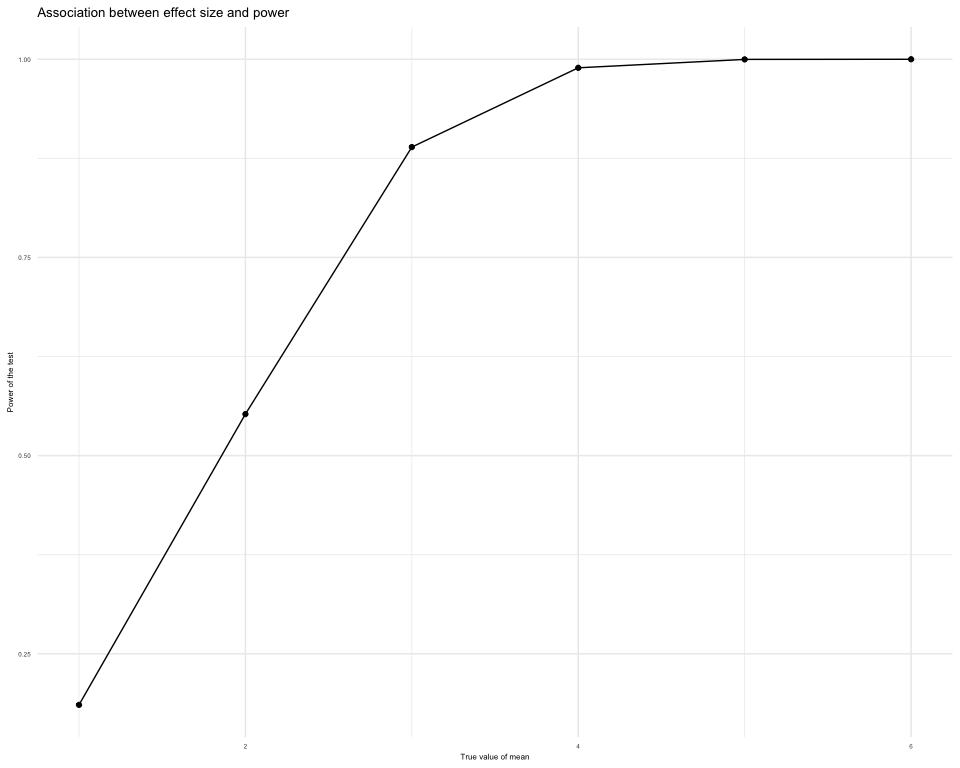
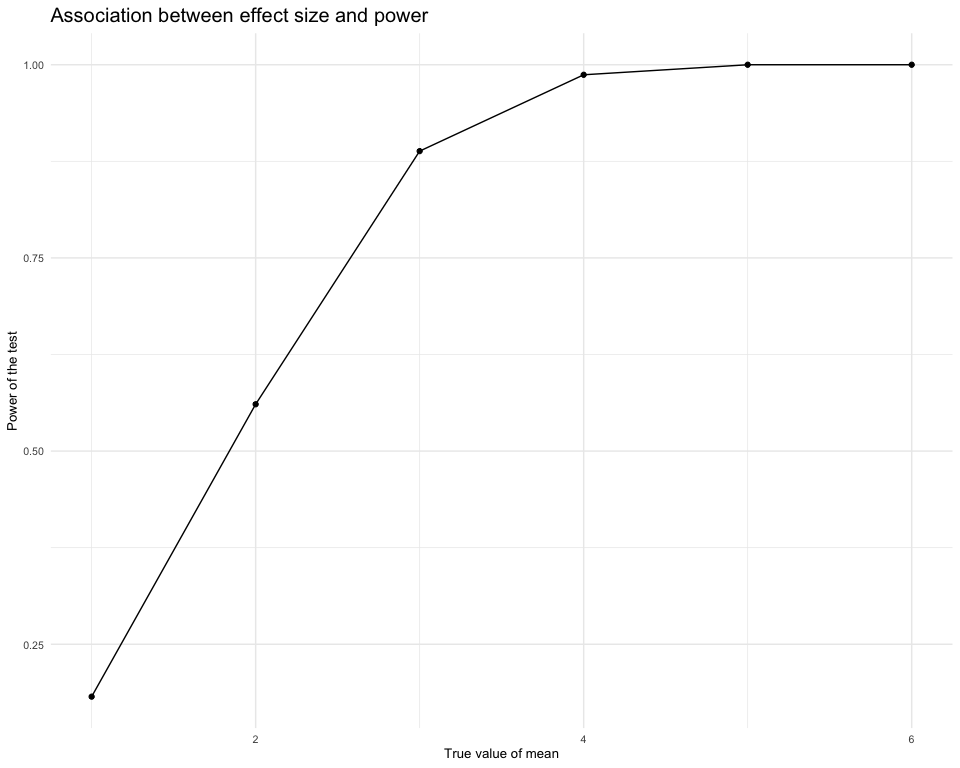
Problem 3 Two plots of the average estimate of μ on the y axis and the true value of μ on the x axis.

diff --git a/homework5.md b/homework5.md
@@ -463,16 +463,16 @@ t_test_1
     ## # A tibble: 5,000 × 2
     ##    estimate p.value
     ##       <dbl>   <dbl>
-    ##  1   -0.603  0.482 
-    ##  2    0.812  0.392 
-    ##  3    0.315  0.734 
-    ##  4   -0.862  0.373 
-    ##  5    1.83   0.0601
-    ##  6   -0.989  0.346 
-    ##  7    0.757  0.330 
-    ##  8   -0.671  0.297 
-    ##  9   -0.442  0.553 
-    ## 10    0.557  0.501 
+    ##  1    1.10  0.328  
+    ##  2    0.471 0.649  
+    ##  3    0.839 0.447  
+    ##  4   -0.598 0.407  
+    ##  5    1.49  0.0970 
+    ##  6   -2.11  0.00350
+    ##  7   -0.398 0.687  
+    ##  8   -0.989 0.161  
+    ##  9   -0.909 0.300  
+    ## 10   -0.635 0.478  
     ## # … with 4,990 more rows
 
 #### Repeat the above for μ={1,2,3,4,5,6} by iteration.
@@ -495,22 +495,19 @@ t_test_2 =
 on the x axis. Describe the association between effect size and power.
 
 ``` r
-t_test_2_data =
+plot_2 =
   t_test_2 %>%
     group_by(miu) %>% 
     summarise(
-      count_2 = sum(reject_HO == 1))
-
-plot_2 = 
-  t_test_2_data %>%
-  ggplot(aes(x = miu, y = count_2/5000)) +
-  geom_point() +
-  geom_line() +
-  labs(
-    x = "True value of mean",
-    y = "Power of the test",
-    title = "Association between effect size and power") +
-    theme(plot.title = element_text(size = 10),text = element_text(size = 6)) 
+      count_2 = sum(reject_HO == 1)) %>%
+    ggplot(aes(x = miu, y = count_2/5000)) +
+    geom_point() +
+    geom_line() +
+    labs(
+      x = "True value of mean",
+      y = "Power of the test",
+      title = "Association between effect size and power") +
+      theme(plot.title = element_text(size = 15),text = element_text(size = 10)) 
 plot_2
 ```
 
@@ -520,3 +517,44 @@ value of mean increases.There is a positive association between effect
 size and power.
 
 #### Make a plot showing the average estimate of estimated μ on the y axis and the true value of μ on the x axis.
+
+``` r
+plot_all = 
+  t_test_2 %>%
+    group_by(miu) %>% 
+      summarise(
+        mean_miu = mean(estimate)) %>% 
+    ggplot(aes(x = miu, y = mean_miu)) +
+    geom_point() +
+    geom_line() +
+    labs(
+      x = "True value of mean",
+      y = "Average estimated value of mean",
+      title = "Association between estimated value and true value of mean") +
+      theme(plot.title = element_text(size = 15),text = element_text(size = 10)) 
+plot_all
+```
+
+<img src="homework5_files/figure-gfm/unnamed-chunk-15-1.png" width="90%" />
+
+#### Make a second plot of the average estimate of μ only in samples for which the null was rejected on the y axis and the true value of μ on the x axis. Is the sample average of μ across tests for which the null is rejected approximately equal to the true value of μ? Why or why not?
+
+``` r
+plot_rejected_HO = 
+  t_test_2 %>%
+    group_by(miu) %>% 
+    filter(reject_HO == 1) %>% 
+      summarise(
+        mean_miu_rejected_HO = mean(estimate)) %>% 
+    ggplot(aes(x = miu, y = mean_miu_rejected_HO)) +
+    geom_point() +
+    geom_line() +
+    labs(
+      x = "True value of mean",
+      y = "Average estimated value of mean",
+      title = "Association between estimated value and true value of mean when H0 was rejected") +
+      theme(plot.title = element_text(size = 15),text = element_text(size = 10)) 
+plot_rejected_HO
+```
+
+<img src="homework5_files/figure-gfm/unnamed-chunk-16-1.png" width="90%" />
